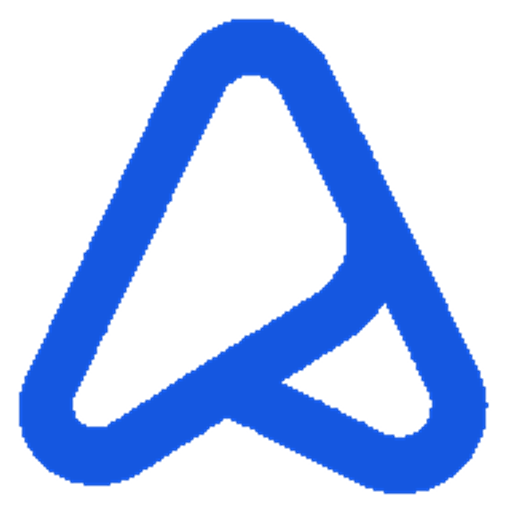
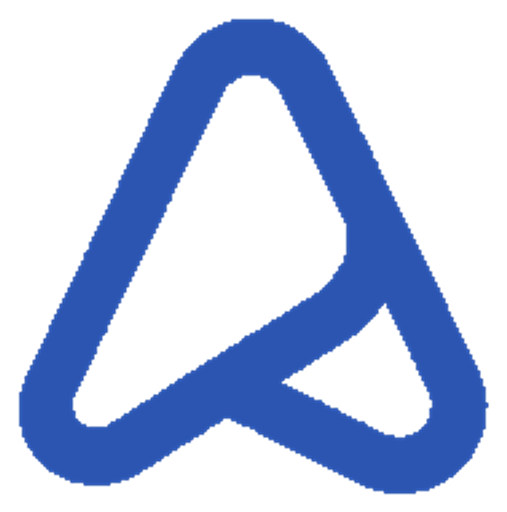
style: calmer royal-blue accent #2B55B0 across tokens, shadows, brand assets, OG

diff --git a/src/components/sections/Pricing.tsx b/src/components/sections/Pricing.tsx
@@ -31,7 +31,7 @@ export default function Pricing() {
       <div className="mt-12 grid items-stretch gap-8 lg:grid-cols-2">
         {pricing.cards.map((card, i) => (
           <Reveal key={card.id} delay={i * 100} className="h-full">
-            <div className="flex h-full flex-col border-2 border-accent bg-bg p-7 shadow-[8px_8px_0_rgba(21,87,224,0.15)] md:p-8">
+            <div className="flex h-full flex-col border-2 border-accent bg-bg p-7 shadow-[8px_8px_0_rgba(43,85,176,0.15)] md:p-8">
               <span className="self-start bg-bg-dark px-4 py-1.5 font-mono text-[10px] tracking-[0.2em] text-white">
                 {card.badge}
               </span>

diff --git a/src/components/sections/Curriculum.tsx b/src/components/sections/Curriculum.tsx
@@ -85,7 +85,7 @@ export default function Curriculum() {
                   key={row.code}
                   className={`border px-5 py-4 transition-all duration-300 md:px-6 ${
                     open
-                      ? "border-accent bg-accent-soft/40 bg-bg shadow-[4px_4px_0_rgba(21,87,224,0.12)]"
+                      ? "border-accent bg-accent-soft/40 bg-bg shadow-[4px_4px_0_rgba(43,85,176,0.12)]"
                       : "border-line bg-bg"
                   } ${passed ? "opacity-70" : ""}`}
                 >

diff --git a/src/components/sections/RoiMaths.tsx b/src/components/sections/RoiMaths.tsx
@@ -71,7 +71,7 @@ export default function RoiMaths() {
         </Reveal>
 
         <Reveal delay={90}>
-          <div className="flex h-full flex-col border-2 border-accent bg-bg p-8 shadow-[8px_8px_0_rgba(21,87,224,0.15)]">
+          <div className="flex h-full flex-col border-2 border-accent bg-bg p-8 shadow-[8px_8px_0_rgba(43,85,176,0.15)]">
             <p className="font-mono text-[11px] tracking-[0.18em] text-accent">
               {roi.result.label}
             </p>

diff --git a/src/app/globals.css b/src/app/globals.css
@@ -20,9 +20,9 @@
   --color-line-strong: #d4d4d4;
 
   /* The accent */
-  --color-accent: #1557e0;
-  --color-accent-hover: #0f45c2;
-  --color-accent-soft: rgb(21 87 224 / 0.12);
+  --color-accent: #2b55b0;
+  --color-accent-hover: #22458f;
+  --color-accent-soft: rgb(43 85 176 / 0.12);
   --color-accent-on: #ffffff;
 
   /* Warm secondary, tiny doses only */
